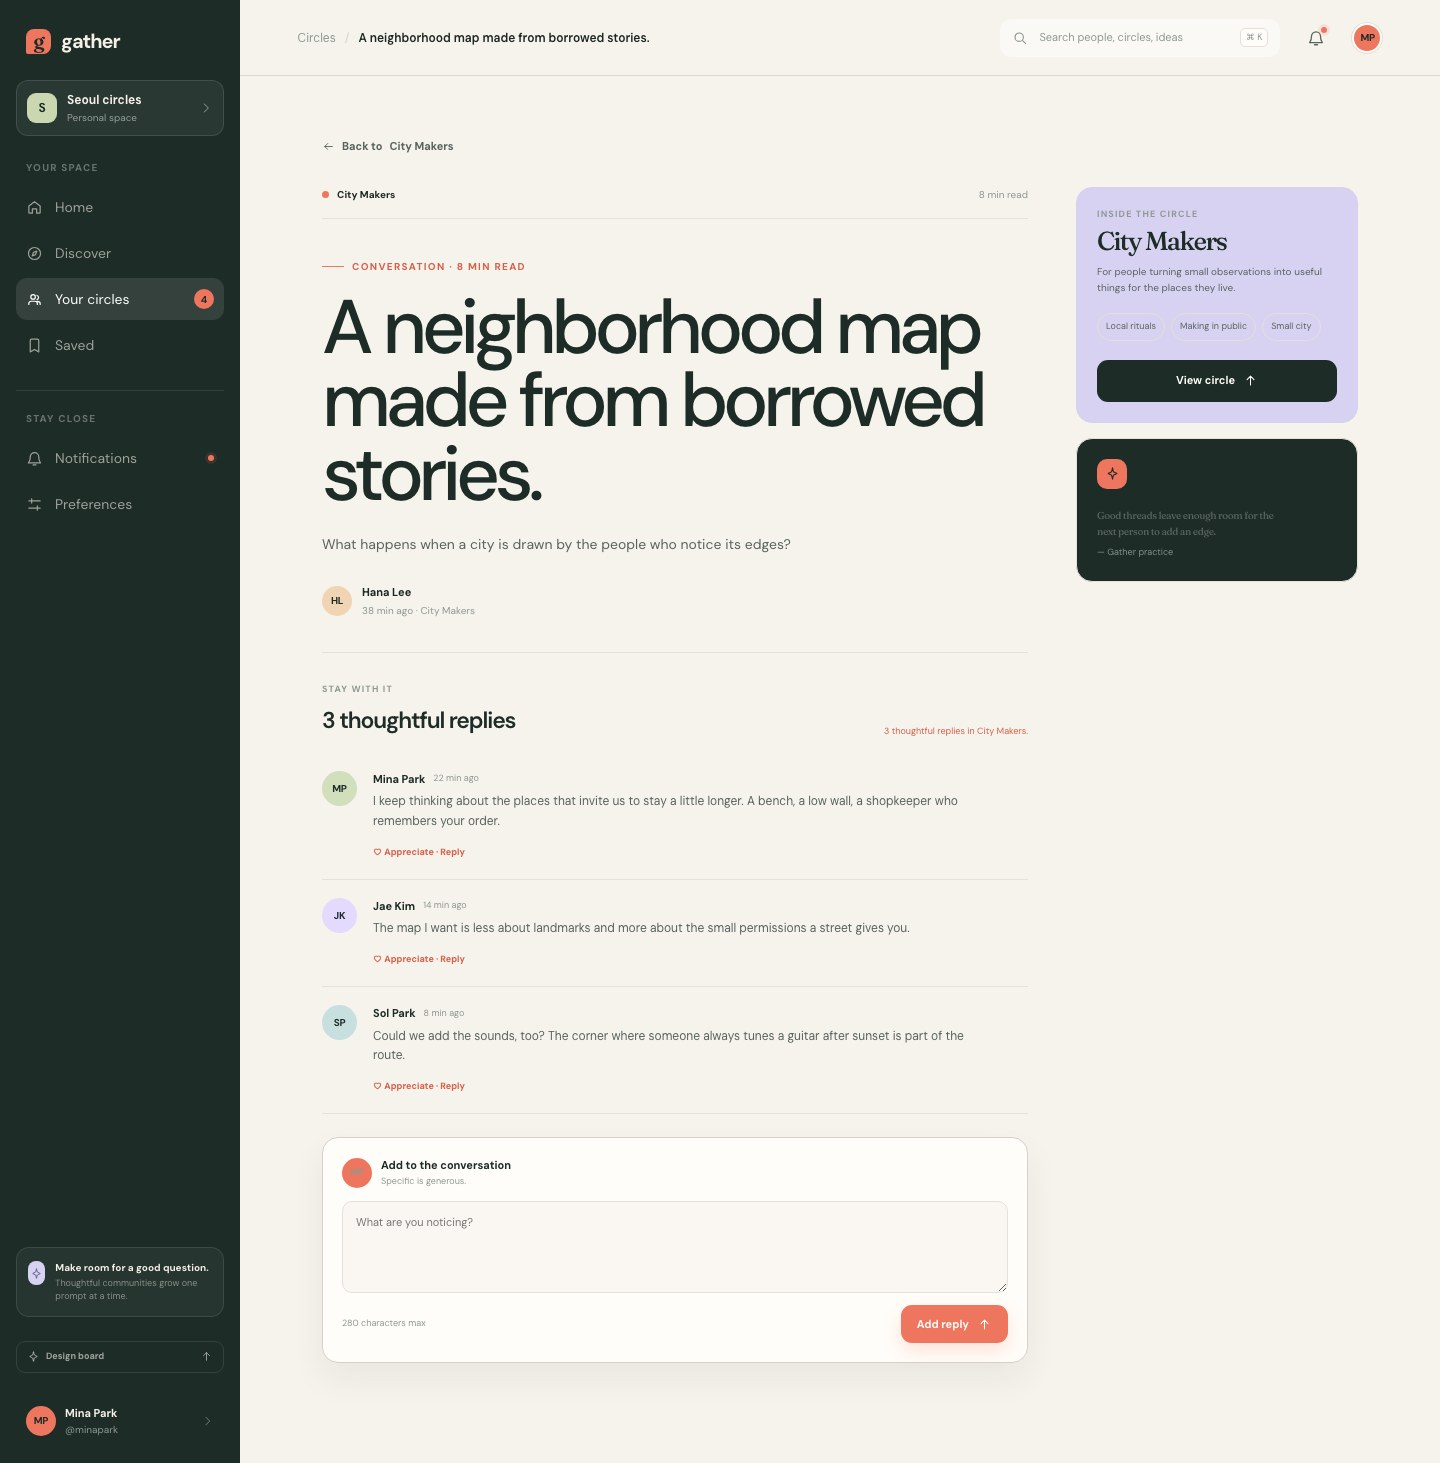
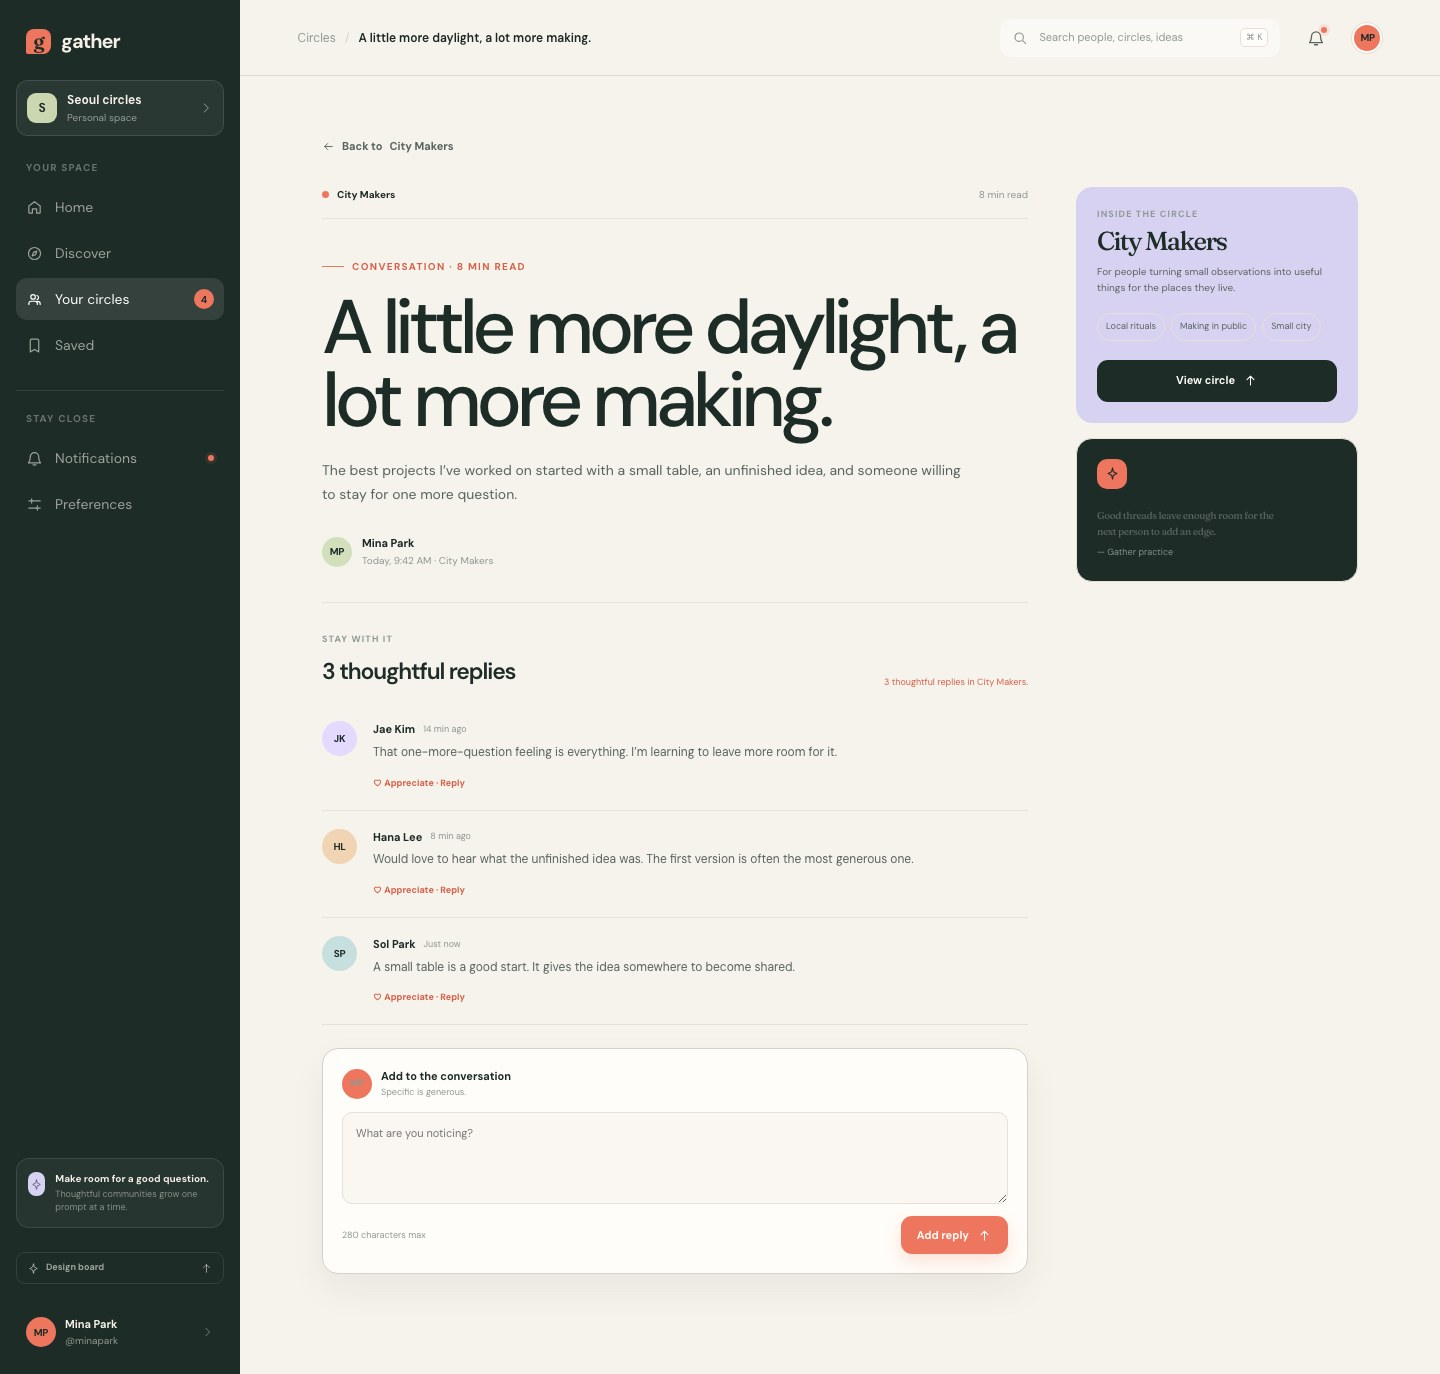
feat: connect featured story to thread

diff --git a/examples/community/index.html b/examples/community/index.html
@@ -157,7 +157,7 @@
 
               <article class="feature-card">
                 <div class="feature-image-wrap"><img class="feature-image" src="./assets/editorial/group-overlook.jpg" alt="Friends sharing a conversation outdoors" /><span class="image-label">Featured in City Makers</span></div>
-                <div class="feature-content"><div class="post-meta"><span class="circle-dot dot-coral"></span><span>City Makers</span><span class="meta-separator">·</span><span>8 min read</span></div><h3>A little more daylight, a lot more making.</h3><p>“The best projects I’ve worked on started with a small table, an unfinished idea, and someone willing to stay for one more question.”</p><div class="feature-footer"><div class="author-line"><span class="avatar avatar-mina">MP</span><span><strong>Mina Park</strong><small>Today, 9:42 AM</small></span></div><button class="round-arrow" type="button" aria-label="Read featured story" data-toast="Featured story route coming next"><svg class="icon" aria-hidden="true"><use href="#icon-arrow-up" /></svg></button></div></div>
+                <div class="feature-content"><div class="post-meta"><span class="circle-dot dot-coral"></span><span>City Makers</span><span class="meta-separator">·</span><span>8 min read</span></div><h3>A little more daylight, a lot more making.</h3><p>“The best projects I’ve worked on started with a small table, an unfinished idea, and someone willing to stay for one more question.”</p><div class="feature-footer"><div class="author-line"><span class="avatar avatar-mina">MP</span><span><strong>Mina Park</strong><small>Today, 9:42 AM</small></span></div><button class="round-arrow" type="button" aria-label="Read featured story" data-thread-route="city-daylight"><svg class="icon" aria-hidden="true"><use href="#icon-arrow-up" /></svg></button></div></div>
               </article>
 
               <div class="feed-list" id="feedList"></div>

diff --git a/examples/community/app.js b/examples/community/app.js
@@ -178,6 +178,22 @@ const circleProfiles = {
 };
 
 const threadProfiles = {
+  "city-daylight": {
+    circle: "City Makers",
+    kicker: "Conversation · 8 min read",
+    readTime: "8 min read",
+    author: "Mina Park",
+    initials: "MP",
+    avatar: "avatar-mina",
+    time: "Today, 9:42 AM",
+    title: "A little more daylight, a lot more making.",
+    body: "The best projects I’ve worked on started with a small table, an unfinished idea, and someone willing to stay for one more question.",
+    replies: [
+      { author: "Jae Kim", initials: "JK", avatar: "avatar-jae", time: "14 min ago", body: "That one-more-question feeling is everything. I’m learning to leave more room for it." },
+      { author: "Hana Lee", initials: "HL", avatar: "avatar-hana", time: "8 min ago", body: "Would love to hear what the unfinished idea was. The first version is often the most generous one." },
+      { author: "Sol Park", initials: "SP", avatar: "avatar-sol", time: "Just now", body: "A small table is a good start. It gives the idea somewhere to become shared." },
+    ],
+  },
   "city-map": {
     circle: "City Makers",
     kicker: "Conversation · 8 min read",
@@ -820,6 +836,9 @@ document.querySelectorAll("[data-discover-filter]").forEach((button) => {
 
 document.querySelectorAll("[data-circle-route]").forEach((button) => {
   button.addEventListener("click", () => navigateToCircle(button.dataset.circleRoute));
+});
+document.querySelectorAll("[data-thread-route]").forEach((button) => {
+  button.addEventListener("click", () => navigateToThread(button.dataset.threadRoute));
 });
 
 document.querySelectorAll("[data-circle-tab]").forEach((button) => {

diff --git a/tests/test_example_evidence.py b/tests/test_example_evidence.py
@@ -16,7 +16,7 @@ class ExampleEvidenceTests(unittest.TestCase):
         result = validate_evidence(ROOT)
         self.assertTrue(result["ok"], result["errors"])
         self.assertEqual(result["metrics"]["captures"], 14)
-        self.assertEqual(result["metrics"]["runtime_checks"], 27)
+        self.assertEqual(result["metrics"]["runtime_checks"], 28)
 
     def test_capture_widths_match_declared_viewports(self):
         result = validate_evidence(ROOT)

diff --git a/design-qa.md b/design-qa.md
@@ -37,6 +37,7 @@ The focused desktop pass inspected the hero baseline, orbit artwork, feed headin
 | DQ-003 | P2 | Route / implementation coverage | Discover cards still ended at a route-boundary toast, leaving Circle identity, membership, and conversation context absent from the runnable flow. | Resolved by adding a shareable City Makers Circle route with Conversations/About tabs, join state, conversation feedback, responsive evidence, and a dedicated visual baseline. |
 | DQ-004 | P2 | Route / implementation coverage | Circle conversation CTAs stopped at a toast, leaving the board’s Thread / Conversation reading and reply screen absent from the runnable flow. | Resolved by adding a shareable Thread route with author context, deterministic replies, browser-back recovery, local reply creation, responsive evidence, and a dedicated visual baseline. |
 | DQ-005 | P2 | Route / implementation coverage | The board defined Profile / Mina Park as the identity and contribution screen, but account controls stopped at a profile-menu toast. | Resolved by adding a shareable Profile route with identity cover, contribution stats, Conversations/Saved tabs, follow feedback, circle context, responsive evidence, and a dedicated visual baseline. |
+| DQ-006 | P2 | Route / implementation coverage | Home’s featured story CTA stopped at a route-boundary toast, leaving the board’s featured Thread content unreachable from the main feed. | Resolved by mapping it to the `city-daylight` shareable Thread route, adding browser-back recovery, and aligning Thread evidence with the board’s featured reading content. |
 
 P0 findings: none.  
 P1 findings: none.  
@@ -62,6 +63,8 @@ The v0.17 Thread-route pass continues the flow into a real conversation detail s
 
 The v0.18 Profile-route pass closes the identity screen gap: Mina Park’s cover art, contribution stats, Conversations/Saved tabs, follow state, circle context, and Thread entry are rendered at desktop and mobile sizes, with browser-back recovery to Home.
 
+The v0.19 Featured Thread-route pass closes the Home CTA gap: the featured “A little more daylight” card now opens the same shareable City Makers Thread surface used by Circle and Profile, restores Home through browser back, and is represented in the Thread evidence captures.
+
 ## Rubric pass
 
 - Typography: local fonts, weight hierarchy, serif display treatment, wrapping, and line-height remain coherent across source and implementation.
@@ -71,19 +74,19 @@ The v0.18 Profile-route pass closes the identity screen gap: Mina Park’s cover
 - Image quality and assets: the featured story uses the same local editorial asset and preserves its crop; no placeholder image replaces a designed asset.
 - Copy and content: source and implementation use the same product copy and state labels for the reviewed home surface.
 - Icons: board symbols and implementation SVG sprite icons are present, aligned, and stylistically consistent.
-- States and interactions: URL state, history restoration, Discover → Circle → Thread → Profile route entry/back with instant scroll reset, topic filters, Circle tab/join state, Thread reply creation/status feedback, Profile Conversations/Saved tabs and follow feedback, dedicated feed-status announcement, Featured story route feedback, synchronized navigation current state, composer focus return, drawer focus return, skip-link navigation, board state, and board dialog focus return passed runtime checks.
+- States and interactions: URL state, history restoration, Home → Featured Thread and Discover → Circle → Thread → Profile route entry/back with instant scroll reset, topic filters, Circle tab/join state, Thread reply creation/status feedback, Profile Conversations/Saved tabs and follow feedback, dedicated feed-status announcement, synchronized navigation current state, composer focus return, drawer focus return, skip-link navigation, board state, and board dialog focus return passed runtime checks.
 - Feed action focus: Like/Save rerendering preserves the focused action and its updated pressed state in browser QA.
 - Accessibility: semantic controls, visible focus treatment, dedicated live status messaging, reduced-motion support, image alt text, and minimum 44 × 44 px mobile control geometry are covered by the example contract and runtime QA.
 - AI shortcut artifacts: no generic placeholder card, fake product image, or mismatched decorative surface was found in the reviewed home surface; the orbit treatment is a deliberate shared motif.
 
 ## Verification
 
-- `npm run capture:community` — refreshed 14 evidence captures, including Discover, City Makers Circle, City Makers Thread, and Mina Park Profile at desktop and mobile.
+- `npm run capture:community` — refreshed 14 evidence captures, including Discover, City Makers Circle, the featured “A little more daylight” Thread, and Mina Park Profile at desktop and mobile.
 - QA comparison capture — refreshed source and implementation panels at 1280 × 720 CSS px / 1× density.
-- `npm run validate:evidence` — 14 captures and 27 documented runtime assertions passed.
-- `npm run test:browser` — 20 / 20 runtime checks passed, including Discover → Circle → Thread → Profile route entry/back recovery, Circle tab/join state, Thread reply creation, Profile tab/follow feedback, instant scroll reset, navigation current state, dedicated feed-status announcements, Featured story CTA feedback, and Like action focus retention after feed rerender.
+- `npm run validate:evidence` — 14 captures and 28 documented runtime assertions passed.
+- `npm run test:browser` — 21 / 21 runtime checks passed, including Home → Featured Thread and Discover → Circle → Thread → Profile route entry/back recovery, Circle tab/join state, Thread reply creation, Profile tab/follow feedback, instant scroll reset, navigation current state, dedicated feed-status announcements, and Like action focus retention after feed rerender.
 - `npm run test:visual` — 7 / 7 targets passed with `mismatchRatio: 0`.
 - `python3 -m unittest tests.test_community_example_contract.CommunityExampleContractTests.test_responsive_and_motion_contracts_are_present` — safe-area contract passed after the intentional RED → GREEN cycle.
-- Browser console sweep — 0 console errors and 0 page errors across Home, Discover, City Makers Circle, City Makers Thread, Mina Park Profile, and board desktop/mobile states.
+- Browser console sweep — 0 console errors, 0 page errors, and 0 invalid links across Home, Featured Thread, Discover, City Makers Circle, City Makers Thread, Mina Park Profile, and board desktop/mobile states.
 
 final result: passed

diff --git a/examples/community/design-spec.md b/examples/community/design-spec.md
@@ -90,13 +90,14 @@ This prevents “community” from defaulting to one feed pattern. The selected 
 | Composer or mobile drawer dismissal | Focus returns to the trigger after close, publish, or Escape recovery |
 | Like / save action focus | Dynamic feed rerender preserves focus on the pressed action and exposes its updated `aria-pressed` state |
 | Feed status announcement | Filter and search result counts use a dedicated polite status region; post-card actions do not re-announce the entire feed |
-| Featured story CTA | The primary featured-story affordance provides explicit route-boundary feedback until its featured Thread is mapped |
+| Featured story CTA | The primary featured-story affordance opens the shareable City Makers Thread route and restores Home through browser back |
 | Navigation current state | Sidebar and mobile navigation share named landmarks and expose the selected destination with `aria-current="page"` |
 | Discover route | Discover opens as a shareable `view=discover` route, resets scroll instantly, filters circle cards, and restores Home through browser back |
 | Circle route | A Discover card opens `view=circle&circle=City Makers`, selects Your circles, and restores Discover through browser back |
 | Circle detail tabs | Conversations and About expose a selected tab, status copy, and a route-boundary action into Thread |
 | Thread route | A Circle conversation opens `view=thread&circle=City Makers&thread=city-map` with reading hierarchy, replies, and browser-back recovery |
 | Thread reply composer | A local deterministic reply validates, appends, clears its draft, updates the count, and announces success |
+| Featured Thread route | Home opens `view=thread&circle=City Makers&thread=city-daylight` with the board’s “A little more daylight” content |
 | Profile route | The account identity opens `view=profile&profile=mina` with contribution context and browser-back recovery |
 | Profile tabs and follow | Conversations/Saved expose selected state; Follow updates `aria-pressed` and a polite status message |
 
@@ -143,15 +144,15 @@ board.html
 | Discover desktop 1440 × 1000 | [`prototype-discover-1440.jpg`](evidence/prototype-discover-1440.jpg) | Dark editorial hero, circle directory cards, topic filters, route-boundary state |
 | Circle desktop 1440 × 1000 | prototype-circle-1440.jpg | City Makers identity, conversation list, About tab, join CTA, responsive route state |
 | Circle mobile 390 × 844 | prototype-circle-390.jpg | Stacked circle hero, tab bar, conversation cards, side context cards, bottom navigation |
-| Thread desktop 1440 × 1000 | [`prototype-thread-1440.jpg`](evidence/prototype-thread-1440.jpg) | Reading hierarchy, author context, replies, Circle context rail, reply composer |
-| Thread mobile 390 × 844 | [`prototype-thread-390.jpg`](evidence/prototype-thread-390.jpg) | Stacked reading flow, reply list, fixed navigation, response composer and context cards |
+| Thread desktop 1440 × 1000 | [`prototype-thread-1440.jpg`](evidence/prototype-thread-1440.jpg) | Board-matched “A little more daylight” reading hierarchy, author context, replies, Circle context rail, reply composer |
+| Thread mobile 390 × 844 | [`prototype-thread-390.jpg`](evidence/prototype-thread-390.jpg) | Stacked featured Thread flow, reply list, fixed navigation, response composer and context cards |
 | Profile desktop 1440 × 1000 | [`prototype-profile-1440.jpg`](evidence/prototype-profile-1440.jpg) | Mina Park identity, contribution stats, conversations, saved context, circle rail |
 | Profile mobile 390 × 844 | [`prototype-profile-390.jpg`](evidence/prototype-profile-390.jpg) | Stacked identity cover, profile tabs, contribution cards, circle list and bottom navigation |
 | Native intent: iOS 390 pt / Android 360 dp | Platform translation artboards | Large-title/tab-bar and app-bar/FAB behavior are specified; native runtime remains a target, not a shipped surface |
 
 The live surface was checked after the direction, platform, and archetype boards were added. Runtime QA also exercised composer validation → recovery → publish success, feed filter state, mobile drawer open → Escape recovery, URL restoration, prototype and board history-state rehydration, local font loading, search URL synchronization, composer focus return, drawer focus return, 44 px mobile touch-target geometry, board dialog focus return, and skip-link navigation. The [evidence manifest](evidence/manifest.json) binds each capture and runtime assertion to its route, viewport, and represented state; run `npm run test:browser` and `npm run validate:evidence` to verify the interaction contract and JPEG dimensions. Evidence captures are committed under `examples/community/evidence/`; they are full-page JPEG screenshots produced from the local server at the viewport sizes named above. Reproduce the surface with the command in [Run locally](#run-locally), then open `/board.html` and `/index.html` at the declared sizes. The static example has no backend or network dependency; loading, empty, recovery, validation, and success are represented as deterministic prototype states. Contributors can regenerate the capture matrix with `npm install`, `npx playwright install chromium`, and `npm run capture:community`; the command reads the manifest instead of maintaining a second list of viewports.
 
-The live route flow now covers Discover → Circle / City Makers → Thread → Profile with shareable URLs, selected Conversations/About and Conversations/Saved tabs, join/follow feedback, author/reply context, local reply creation, contribution history, and browser-back restoration. Circle, Thread, and Profile desktop/mobile captures are included in the evidence matrix alongside the Discover route.
+The live route flow now covers Home → Featured Thread and Discover → Circle / City Makers → Thread → Profile with shareable URLs, selected Conversations/About and Conversations/Saved tabs, join/follow feedback, author/reply context, local reply creation, contribution history, and browser-back restoration. Circle, featured Thread, and Profile desktop/mobile captures are included in the evidence matrix alongside the Discover route.
 
 ### Review scores
 

diff --git a/README.md b/README.md
@@ -41,7 +41,7 @@ npm run test:browser
 npm run test:visual
 ```
 
-`npm run test:browser` proves URL restoration, prototype and board history-state rehydration, local font loading, dedicated feed-status announcements, search URL synchronization, Discover → Circle → Thread → Profile route entry with instant scroll reset and browser-back recovery, Circle tab and join feedback, local Thread reply creation and status announcements, Profile Conversations/Saved tabs and follow feedback, composer focus return, Like/Save action focus retention, Featured story CTA feedback, named navigation landmarks and current destination state, mobile drawer focus return, 44px mobile touch targets, board dialog focus return, and skip-link navigation in Chromium.
+`npm run test:browser` proves URL restoration, prototype and board history-state rehydration, local font loading, dedicated feed-status announcements, search URL synchronization, Home → Featured Thread → Profile and Discover → Circle → Thread route entry with instant scroll reset and browser-back recovery, Circle tab and join feedback, local Thread reply creation and status announcements, Profile Conversations/Saved tabs and follow feedback, composer focus return, Like/Save action focus retention, featured Thread route recovery, named navigation landmarks and current destination state, mobile drawer focus return, 44px mobile touch targets, board dialog focus return, and skip-link navigation in Chromium.
 
 ## Quality checks
 
@@ -65,4 +65,4 @@ The community reference surface is intentionally `review-ready`, not `release-re
 
 Read [`CONTRIBUTING.md`](CONTRIBUTING.md) before opening a change. The short version is: preserve the existing product decisions, add evidence for new states or viewports, run `npm run ci:quality`, and describe any remaining finding with severity, evidence, and next action.
 
-The current roadmap is [`docs/superpowers/plans/2026-08-21-design-skills-v0.18-profile-route.md`](docs/superpowers/plans/2026-08-21-design-skills-v0.18-profile-route.md).
+The current roadmap is [`docs/superpowers/plans/2026-08-21-design-skills-v0.19-featured-thread-route.md`](docs/superpowers/plans/2026-08-21-design-skills-v0.19-featured-thread-route.md).

diff --git a/docs/superpowers/plans/2026-08-21-design-skills-v0.19-featured-thread-route.md b/docs/superpowers/plans/2026-08-21-design-skills-v0.19-featured-thread-route.md
@@ -1,0 +1,18 @@
+# Design Skills v0.19 Featured Thread Route Roadmap
+
+## Goal
+
+Close the Home → Thread route boundary by making the featured “A little more daylight” story open the same production-shaped conversation detail used by Circle and Profile.
+
+## Scope
+
+- [x] Map the Home featured-story CTA to a shareable City Makers Thread URL.
+- [x] Reuse the Thread reading hierarchy, author context, replies, and reply composer.
+- [x] Preserve browser-back recovery to Home and instant scroll reset on entry.
+- [x] Align Thread evidence with the board’s featured “A little more daylight” content.
+- [x] Update runtime assertions and route documentation for the closed flow.
+- [ ] Replace local featured replies with persisted content when backend scope exists.
+
+## Review note
+
+The static responsive web surface remains review-ready, not release-ready: the featured story now has a real conversation destination, while persistence, authentication, native runtime, and deployment evidence remain integration work.
